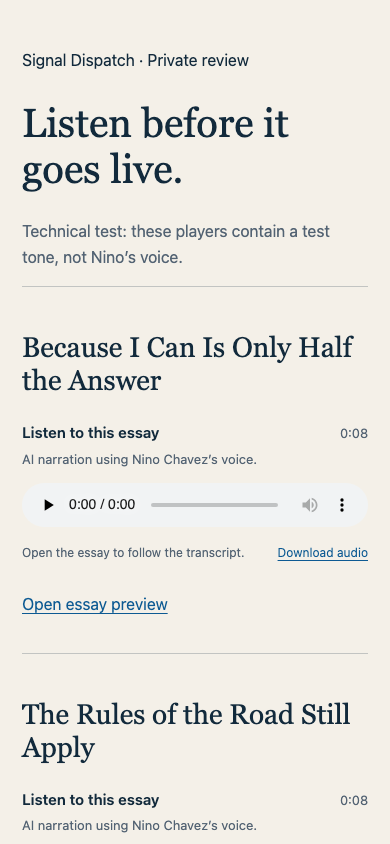
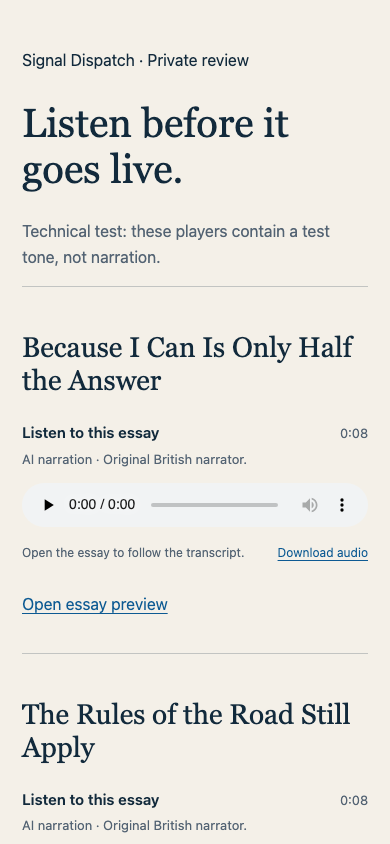
feat: use the selected original narrator for Listen previews
Agent-Session: codex:01a18e6f-e56c-76d0-bc20-54f985bf2439

Changed region(s): [[0.2462, 0.955, 0.6462, 0.9858], [0.2462, 0.5237, 0.6462, 0.5545], [0.2462, 0.2773, 0.4615, 0.3389]]

diff --git a/docs/listen.md b/docs/listen.md
@@ -1,36 +1,36 @@
 # Listen: hear the recording before publishing it
 
-The first trial uses **Because I Can Is Only Half the Answer** and **The Rules of the Road Still Apply**. Nino selected **Nino Casual - cleaned test** after hearing the short comparison and requested further refinement. The third private review uses that voice at **0.92 speed**, with brief thought pauses, punctuated headings and **six-three-oh** as the pronunciation of `630`. The recordings are **4:04** and **8:26**, respectively. The same gentle EQ, compression and volume leveling remain; no local pitch correction or time stretching was applied. The original clone, earlier recordings and unprocessed new takes are preserved. These candidates still require Nino's listening approval. No essay has public audio metadata, and no MP3 has been added to the site.
+The first trial uses **Because I Can Is Only Half the Answer** and **The Rules of the Road Still Apply**. After reviewing his own clone and three original narrator auditions, Nino selected **candidate 1**, saved as **Signal Dispatch - British Narrator**. This is an original designed voice, disclosed as **Original British narrator**. The full-essay recordings are **5:08** and **10:20**, using Eleven v3, native speed 1, punctuated headings and **six-three-oh** as the pronunciation of `630`. Only volume was adjusted locally. Both original clones, all auditions and earlier full recordings are preserved. Narrator selection does not approve the full recordings: Nino must hear those before publication. No essay has public audio metadata, and no MP3 has been added to the site.
 
 ## Set up the voice once
 
-The trial uses **Nino Casual - cleaned test** and retains **Nino Casual** as the original. For a future replacement, record about two minutes alone in a quiet, furnished room with little echo, at a consistent microphone distance. Use normal conversational volume and the delivery you want the essays to use. Read the opening of an existing essay naturally. Use a name containing **Nino** and complete ElevenLabs' voice-rights confirmation yourself.
+Save the exact audition Nino selects, then read it back from ElevenLabs. Record its `voiceId`, `name`, `category` (`generated` or `cloned`), reader-facing `narrator` label and `selectedBy: Nino` in the private manifest's `voiceSelection`. The generator copies that narrator label to each completed essay; this is separate from its author. It rejects a different voice ID, name or category instead of silently changing narrators.
 
-ElevenLabs recommends one to two minutes of clean, consistent speech; its current recording screen suggests three minutes. More than three minutes is not needed for this trial. See the [official recording guidance](https://elevenlabs.io/docs/eleven-creative/voices/voice-cloning/instant-voice-cloning).
+The selected candidate is saved from its original Voice Design preview, without cloning a performer. For a future personal clone, use one to two minutes of normal conversational speech in a quiet, furnished room, at a consistent microphone distance, and complete the voice-rights confirmation yourself. See the [official recording guidance](https://elevenlabs.io/docs/eleven-creative/voices/voice-cloning/instant-voice-cloning).
 
-The clone stays in Nino's ElevenLabs account. Do not publish it to the voice library. The generation command requires a saved Instant Voice Clone with Nino in its name; it never falls back to a stock narrator or another provider.
+Voices stay in Nino's ElevenLabs account. Do not publish them to the voice library. The generation command accepts only the exact selected saved clone or designed voice; it never falls back to a stock narrator or another provider.
 
 ## Prepare and generate private recordings
 
 Run commands from `astro-build`. `npm run listen:prepare` extracts the two published essays into `.tmp/listen-preview/`. It refuses to overwrite an existing review. Read both text files before generating: URLs are removed while link text remains, headings are spoken with ending punctuation, section dividers become pauses, and `630` becomes `Six-three-oh`, as Nino specified. The standalone “Read the letter” link is omitted. The title and author are spoken first. Complex MDX fails instead of silently losing code, images or tables.
 
-`npm run listen:generate -- --voice-id SAVED_VOICE_ID` is an offline dry run. It reports uncached characters and sends no requests. Add `--generate` to create the private recordings after the voice is saved and the scripts have been read. The default allowance is 18,000 text characters per invocation. The first pair contains approximately 13,100 characters; the provider's actual credit charge remains authoritative.
+`npm run listen:generate -- --voice-id SAVED_VOICE_ID --model-id eleven_v3` is the current offline dry run. It reports uncached characters and sends no requests. Add `--generate` to create the private recordings after the voice is saved, its selection recorded and the scripts read. The default allowance is 18,000 text characters per invocation. The first pair contains approximately 13,100 characters; the provider's actual credit charge remains authoritative.
 
-The authoring command reads the existing ElevenLabs credential from 1Password in process memory, or accepts `ELEVENLABS_API_KEY` already supplied by a secret injector. It never writes credentials. `ffmpeg` and `ffprobe` are required locally. The voice is checked before generating. Output uses Multilingual v2 at 44.1 kHz / 128 kbps MP3, with no background music.
+The authoring command reads the existing ElevenLabs credential from 1Password in process memory, or accepts `ELEVENLABS_API_KEY` already supplied by a secret injector. It never writes credentials. `ffmpeg` and `ffprobe` are required locally. The voice is checked before generating. Output is 44.1 kHz / 128 kbps MP3, with no background music. Supported models are Eleven v3 and Multilingual v2; the latter remains the command's default for compatibility. The v3 setting uses stability 0.5 and omits similarity and speaker boost controls that v3 does not support.
 
-`--speed 0.92` sets the slower cadence used in the third review. The default remains `1`; values outside ElevenLabs' supported `0.7`–`1.2` range are rejected before any request. Speed is part of the cache fingerprint. The third-review scripts also use sparse `<break time="0.5s" />` tags at thought transitions and a 0.6-second pause after the byline. Keep these tags in reviewed narration scripts, not the published prose. ElevenLabs warns that excessive break tags can cause speeding or artifacts; see its [pacing and pause guidance](https://elevenlabs.io/docs/overview/capabilities/text-to-speech/best-practices).
+Speed defaults to `1`, preserving the designed narrator's audition cadence; values outside ElevenLabs' supported `0.7`–`1.2` range are rejected before any request. Speed is part of the cache fingerprint. The earlier personal-clone review used `--speed 0.92` and sparse SSML pauses with Multilingual v2. Eleven v3 rejects those scripts because it does not support SSML breaks; its current scripts use natural punctuation and paragraph boundaries. See ElevenLabs' [pacing and pause guidance](https://elevenlabs.io/docs/overview/capabilities/text-to-speech/best-practices).
 
 Generation is split at paragraph boundaries. A chunk is reused only when its script, voice ID, model, voice settings, neighboring text and output format match and its saved bytes pass a checksum. There are no automatic paid retries. After an uncertain network failure, inspect ElevenLabs history before rerunning. If the clone's samples change under the same voice ID, preserve the old review and prepare a new review directory before generating again; cached takes are not evidence of the revised voice.
 
 Local review state and audio stay under `.tmp`, outside Astro's source and public directories. The manifest records source/script hashes, settings, durations and audio hashes; chunk receipts record request IDs. Keep this review directory until the recording is approved and promoted; removing it loses the local recordings and cache.
 
-Keep previously shared MP3 paths unchanged when revising. Archive the prior manifest and assign new `audioFile` names before generation; the generator writes to those destinations. The current files end in `-cadence-v3.mp3`, while their unprocessed takes end in `-cadence-v3-raw.mp3`. The v2 files remain unchanged. Do not rerun generation against the finished manifest without first assigning new raw-output names. Local EQ revisions can reuse the unprocessed recordings without another ElevenLabs generation. Each essay's `postProcessing` record and `.tmp/listen-preview/cadence-v3-review.json` retain the exact source hash, filters, finishing gain, final hash and measured levels; `refinement-review.json` retains the preceding review.
+Keep previously shared MP3 paths unchanged when revising. Archive the prior manifest and assign new `audioFile` names before generation; the generator writes to those destinations. The British narrator files end in `-british-v1.mp3`, while their unprocessed takes end in `-british-v1-raw.mp3`. Earlier files remain unchanged. Do not rerun generation against the finished manifest without first assigning new raw-output names. Local finishing can reuse unprocessed recordings without another ElevenLabs generation. Each essay's `postProcessing` record and `.tmp/listen-preview/british-v1-review.json` retain source/final hashes, finishing settings and measured levels. Earlier review receipts remain alongside them.
 
 ## Listen locally
 
 Run `npm run build`, then `npm run listen:preview`. Open `http://127.0.0.1:4328`. The listening room shows both recordings when available and links to each essay with the same player used by the public article. It binds only to loopback, sends no-store and noindex headers, and is not an Astro route. Public builds cannot include it.
 
-The public player appears below the byline. Native controls support play, pause and seeking without JavaScript; the browser may also offer playback speed. A small enhancement makes Space work consistently when the player has focus and explains playback failures. Nothing autoplays or preloads before playback. A download link remains available as an explicitly fallible recovery action after an error, and the essay below supplies the transcript. The visible label says the narration uses an AI version of Nino's voice.
+The public player appears below the byline. Native controls support play, pause and seeking without JavaScript; the browser may also offer playback speed. A small enhancement makes Space work consistently when the player has focus and explains playback failures. Nothing autoplays or preloads before playback. A download link remains available as an explicitly fallible recovery action after an error, and the essay below supplies the transcript. The visible label identifies AI narration and the selected narrator, without implying that the author recorded a designed voice.
 
 The listening room checks the current essay, built transcript and audio fingerprints. Changed text, an old build or replaced audio must be reconciled before listening. Check pronunciation, pace, paragraph joins and the ending of each actual recording. Pay particular attention to six-three-oh, LeagueApps, Hume Logan and the names cited in the second essay. Browser tests use an explicitly labelled test tone and do not establish voice quality. Nino must hear both real recordings before publication.
 

diff --git a/docs/design/listen-review.md b/docs/design/listen-review.md
@@ -67,3 +67,20 @@ A 381-character pilot decoded fully and retained the opening in local transcript
 Both final MP3s decode fully, retain their generated durations and match their saved hashes. Local Whisper small.en comparisons found no missing passages after normalizing number/name formatting and contractions. Two differences remain: `30`/`30th` and `conflict`/`conflicts`; these may be recognition errors. Transcription and timing checks do not establish natural cadence or exact pronunciation. Nino's listening approval remains required.
 
 All 16 approval/script/player tests pass, including the pronunciation correction, heading punctuation and rejection of invalid speed values before any provider request. The full site build passes. Production output contains no MP3s or private-review markers. Earlier rendered player checks remain applicable because player code did not change. Exact audio checks and processing settings are in `.tmp/listen-preview/cadence-v3-review.json`. The draft stays unmerged and the recordings unpublished.
+
+## Selected original British narrator
+
+Nino requested an original theatrical British narrator audition and chose **candidate 1** from three readings of the same 359-character opening. The selected Voice Design preview was saved as **Signal Dispatch - British Narrator** and verified by an API readback. The three auditions and the selection receipt stay private under `british-narrator-audition/`. No performer recording was used to design this voice.
+
+The generator now checks the exact selected voice ID, name and category against the private manifest, and copies the selected narrator label to each completed essay. It accepts selected personal clones and designed voices without a fallback. The shared player says **AI narration · Original British narrator.** The private review introduction no longer claims this is the author's voice. The author byline and public metadata schema are unchanged.
+
+Both essays were generated with Eleven v3 at speed 1 and stability 0.5, matching the audition's model family and retaining the designed voice's native pacing. The scripts use punctuated headings, paragraph breaks and **six-three-oh**; they contain no SSML breaks or acting tags. Three requests used 13,128 text characters without retries. Local finishing applied only linear volume reductions, without EQ, compression, pitch correction or time stretching. Earlier delivered MP3s remain unchanged.
+
+| Essay | Duration | Final loudness | True peak |
+|---|---|---|---|
+| Because I Can Is Only Half the Answer | 5:08 | -22.19 LUFS | -5.18 dBTP |
+| The Rules of the Road Still Apply | 10:20 | -22.19 LUFS | -5.07 dBTP |
+
+Both finished files decode fully, preserve generated duration and match their manifest hashes. Local Whisper small.en comparisons against the raw takes found no missing passages. Differences were British/American spelling, `30`/`30th`, `the`/`a` and `reward`/`rewards`; recognition is not proof of exact pronunciation. The complete settings, raw/final hashes and transcript comparisons are in `.tmp/listen-preview/british-v1-review.json`.
+
+Read-only dispatch `81b57882-e411-4305-8a3d-b3f3540354fa` identified downstream author-voice assumptions; its requested and reported runtime matched. The parent checked the affected sources and updated the generation guard, shared disclosure, review copy, direction and operating guide without adding unnecessary public metadata fields. All 18 focused tests and all 12 rendered checks pass. The parent opened the updated desktop and phone captures directly. The browser checks use a labelled synthetic tone and establish controls, labels and layout, not acceptance of the new narration. The full site build passes, and production output contains no audio or private-review markers. Human approval of both actual full recordings remains open; the draft stays unmerged.

diff --git a/DIRECTION.md b/DIRECTION.md
@@ -39,6 +39,6 @@ Review the rendered page, not this document, when judging hierarchy, readability
 
 ## Listen feature — preserve the reading surface
 
-The affected surfaces are the native essay opening on desktop and phone, its optional audio controls, and a local listening room for author review. Keep the selected Journal typography, column width, byline and article prose. An approved recording sits below the byline and before the contents and opening paragraph. Native controls support play, pause and seeking without JavaScript or autoplay. State that the narration uses an AI version of the author's voice; the essay supplies the transcript.
+The affected surfaces are the native essay opening on desktop and phone, its optional audio controls, and a local listening room for author review. Keep the selected Journal typography, column width, byline and article prose. An approved recording sits below the byline and before the contents and opening paragraph. Native controls support play, pause and seeking without JavaScript or autoplay. Identify the selected narrator and disclose AI narration; the essay supplies the transcript. Nino selected an original British narrator after reviewing both his clone and three designed-voice auditions. The author byline remains separate from narrator identity.
 
 Unapproved recordings remain outside Astro's source and public directories. The local listening room is bound to this computer and is never a published route. Only the author's approval of the actual recording permits adding public audio metadata and assets.
